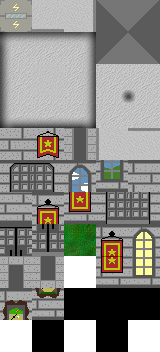
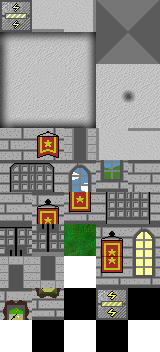
New Recharge Pad animation

Changed region(s): [[0.5938, 0.8125, 0.8125, 0.9062], [0.0, 0.0, 0.2188, 0.0938]]

diff --git a/tiles_map/terrainSet.tsx b/tiles_map/terrainSet.tsx
@@ -4,6 +4,12 @@
  <terraintypes>
   <terrain name="Plancher" tile="19"/>
  </terraintypes>
+ <tile id="0">
+  <animation>
+   <frame tileid="0" duration="100"/>
+   <frame tileid="48" duration="100"/>
+  </animation>
+ </tile>
  <tile id="5" terrain=",,,0"/>
  <tile id="6" terrain=",,0,0"/>
  <tile id="7" terrain=",,0,"/>
